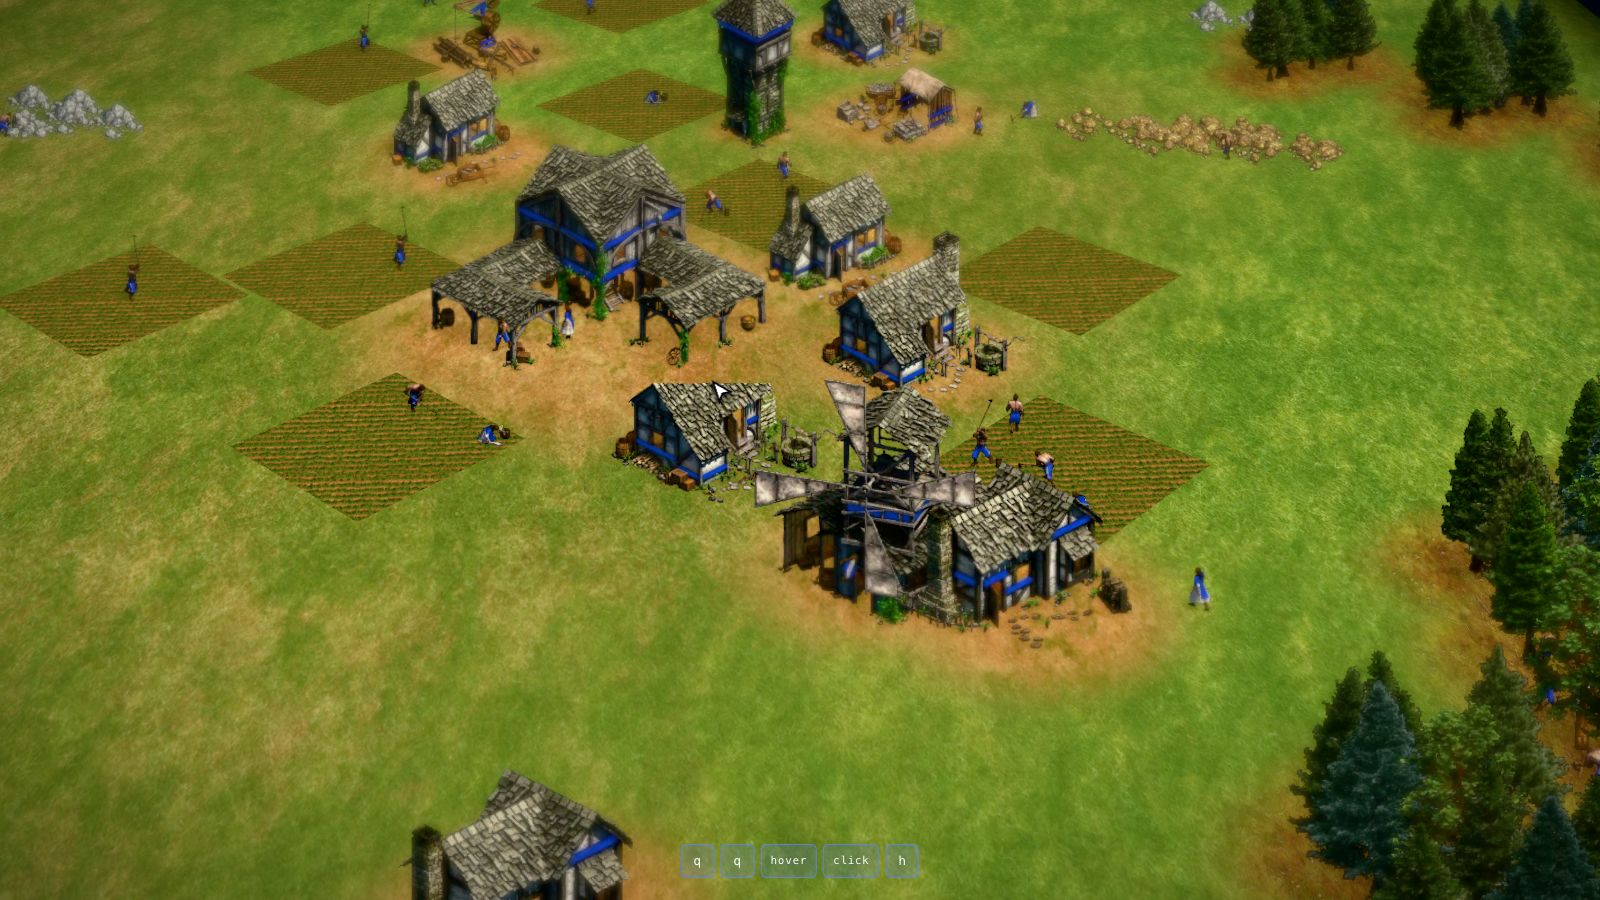
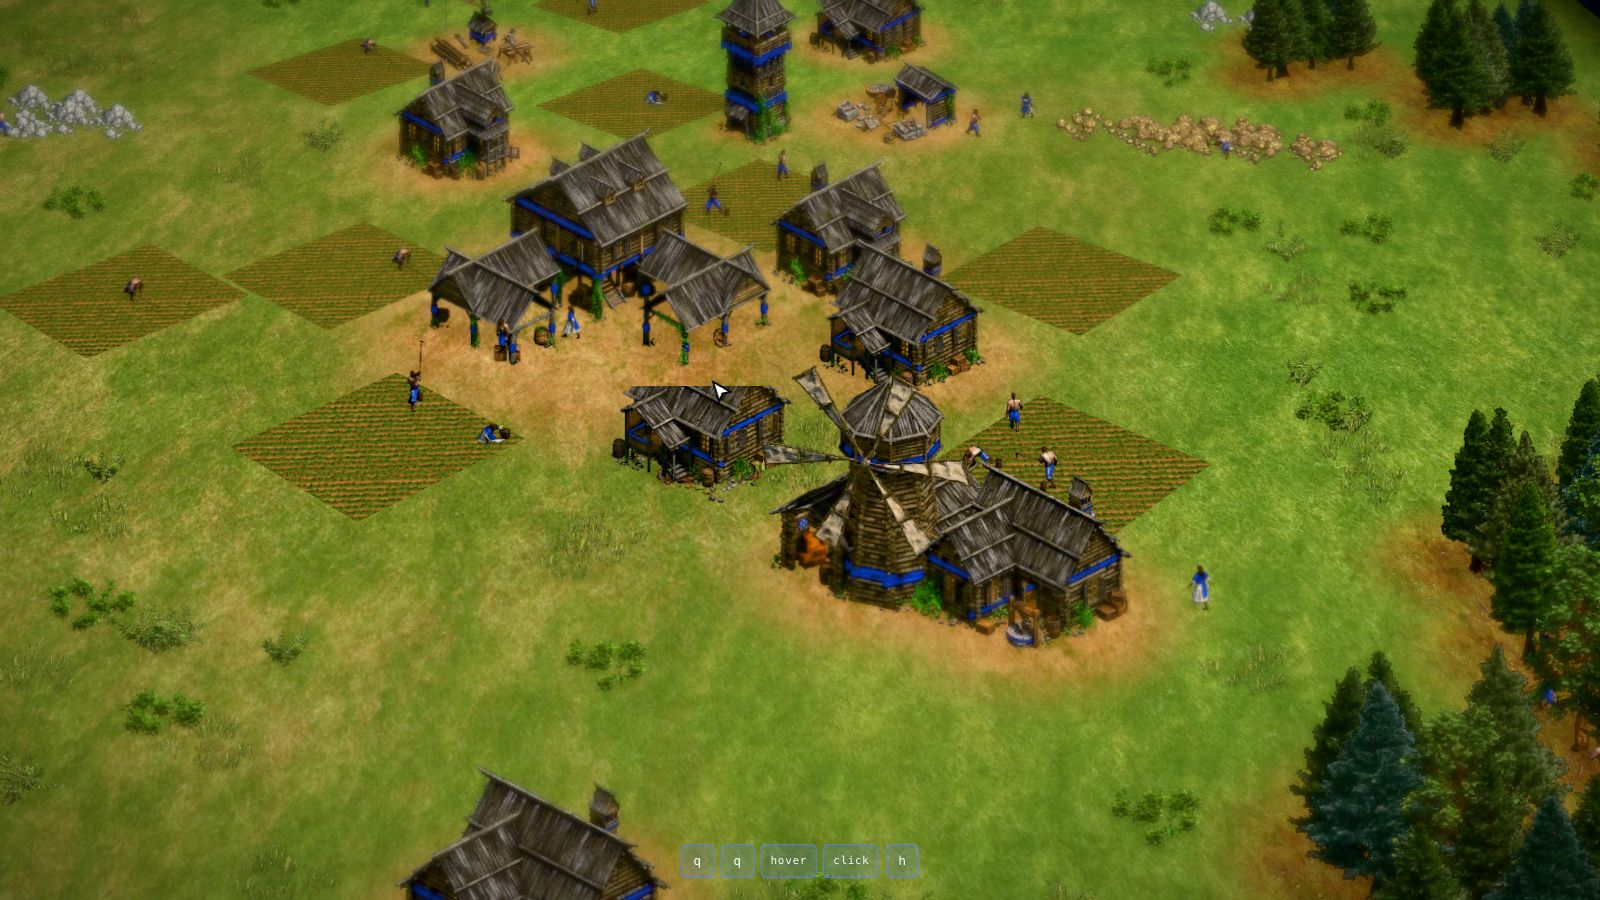
fix(landing): use the Eastern European buildings and the map's ground cover
The recorded Magyar player builds in the game's Eastern European style, the
log-cabin "slav" sprite set, not the timber-frame "east" set the village used.
The village also gets the grass tufts, bushes and shrubs the map is dotted
with, so it matches the recorded frame.

diff --git a/apps/landing/src/components/walkthrough/scene/world.ts b/apps/landing/src/components/walkthrough/scene/world.ts
@@ -219,6 +219,21 @@ export function createWorld(layout: Layout, textures: WorldTextures, meta: Sprit
     }
   }
 
+  // Ground cover on open grass, away from buildings, fields and forest.
+  // Mostly small grass tufts, with bushes and shrubs.
+  const cover = [...variants("tuft"), ...variants("tuft"), ...variants("bush"), ...variants("shrub")];
+  const blockers = layout.placements.filter((p) => p.kind === "building" || p.kind === "farm" || p.kind === "tree" || p.kind === "mine");
+  for (let k = 0, placed = 0; k < 900 && placed < 140; k++) {
+    const s = layout.rand();
+    const t = layout.rand();
+    const x = c0.x + (c1.x - c0.x) * s + (c3.x - c0.x) * t;
+    const z = c0.z + (c1.z - c0.z) * s + (c3.z - c0.z) * t;
+    if (Math.min(s, 1 - s, t, 1 - t) < 0.04) continue;
+    if (blockers.some((b) => Math.hypot(x - b.x, z - b.z) < (b.kind === "tree" ? 1.2 : b.size * 0.85 + 0.6))) continue;
+    sprites.add(pick(cover, layout.rand() * 1000), x, 0, z);
+    placed++;
+  }
+
   // Villagers: each works at what stands next to it, or walks a short beat.
   const nearest = (p: Placement, kinds: Placement["kind"][]) => {
     let best: Placement | null = null;

diff --git a/apps/landing/scripts/build_walkthrough_sprites.py b/apps/landing/scripts/build_walkthrough_sprites.py
@@ -125,18 +125,23 @@ def main() -> None:
     g = args.graphics
 
     sprites: dict[str, list[Sprite]] = {}
-    # Magyars build in the Eastern European style; the recorded game is in the Feudal Age.
-    sprites |= still(g, "b_east_town_center_age2", "town_center")
-    sprites |= still(g, "b_east_house_age2", "house", [0, 1, 2])
-    sprites |= still(g, "b_east_mill_age2", "mill")
-    sprites |= still(g, "b_east_lumber_camp_age2", "lumber_camp")
-    sprites |= still(g, "b_east_mining_camp_age2", "mining_camp")
-    sprites |= still(g, "b_east_tower_age2", "tower")
+    # Magyars build in the Eastern European style, the game's "slav" set; the recorded
+    # game is in the Feudal Age.
+    sprites |= still(g, "b_slav_town_center_age2", "town_center")
+    sprites |= still(g, "b_slav_house_age2", "house", [0, 1, 2])
+    sprites |= still(g, "b_slav_mill_age2", "mill")
+    sprites |= still(g, "b_slav_lumber_camp_age2", "lumber_camp")
+    sprites |= still(g, "b_slav_mining_camp_age2", "mining_camp")
+    sprites |= still(g, "b_slav_tower_age2", "tower")
     sprites |= still(g, "b_foundation_2x2_rubble", "foundation")
     sprites |= still(g, "n_tree_pine", "pine", list(range(27)), keep=is_green)
     sprites |= still(g, "n_tree_oak", "oak", list(range(12)), keep=is_green)
     sprites |= still(g, "n_mine_gold", "gold", list(range(0, 7, 2)))
     sprites |= still(g, "n_mine_stone", "stone", list(range(0, 7, 2)))
+    # Ground cover the map is dotted with: grass tufts, bushes and shrubs.
+    sprites |= still(g, "n_plant_grass_green", "tuft", list(range(8)))
+    sprites |= still(g, "n_plant_bush_green", "bush", list(range(8)))
+    sprites |= still(g, "n_plant_shrub_green", "shrub", list(range(8)))
     for gender in ("male", "female"):
         g_ = gender[0]
         sprites |= animation(g, f"u_vil_{gender}_lumberjack_taskA", f"vil{g_}_chop")
